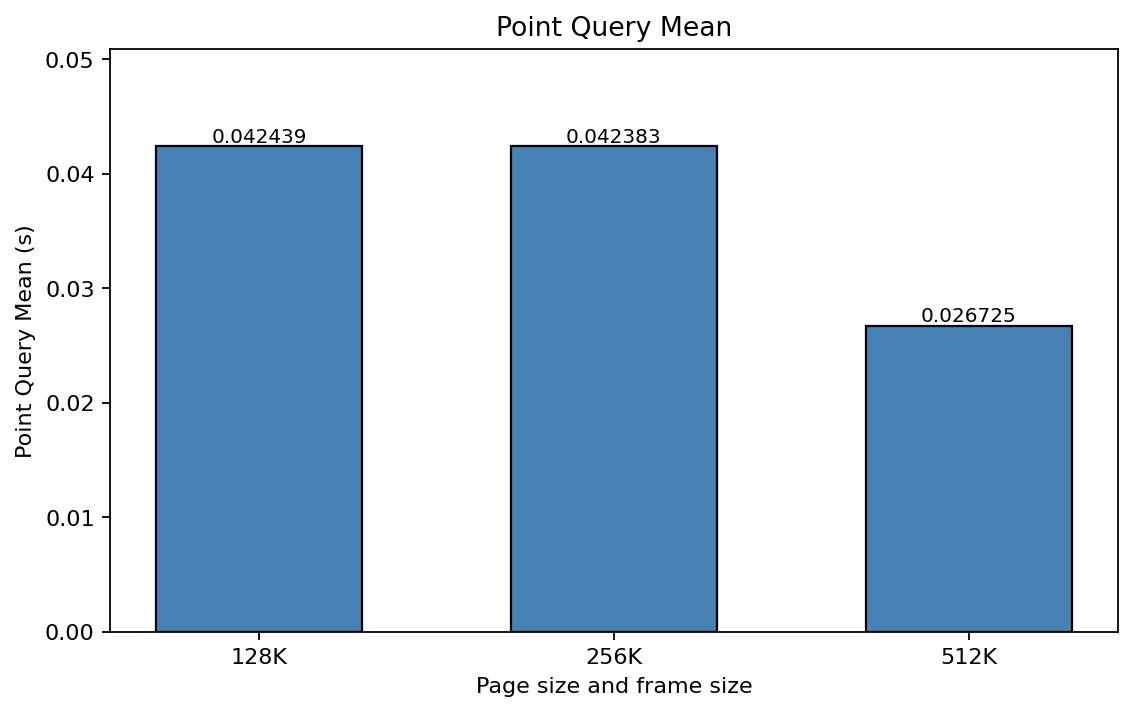
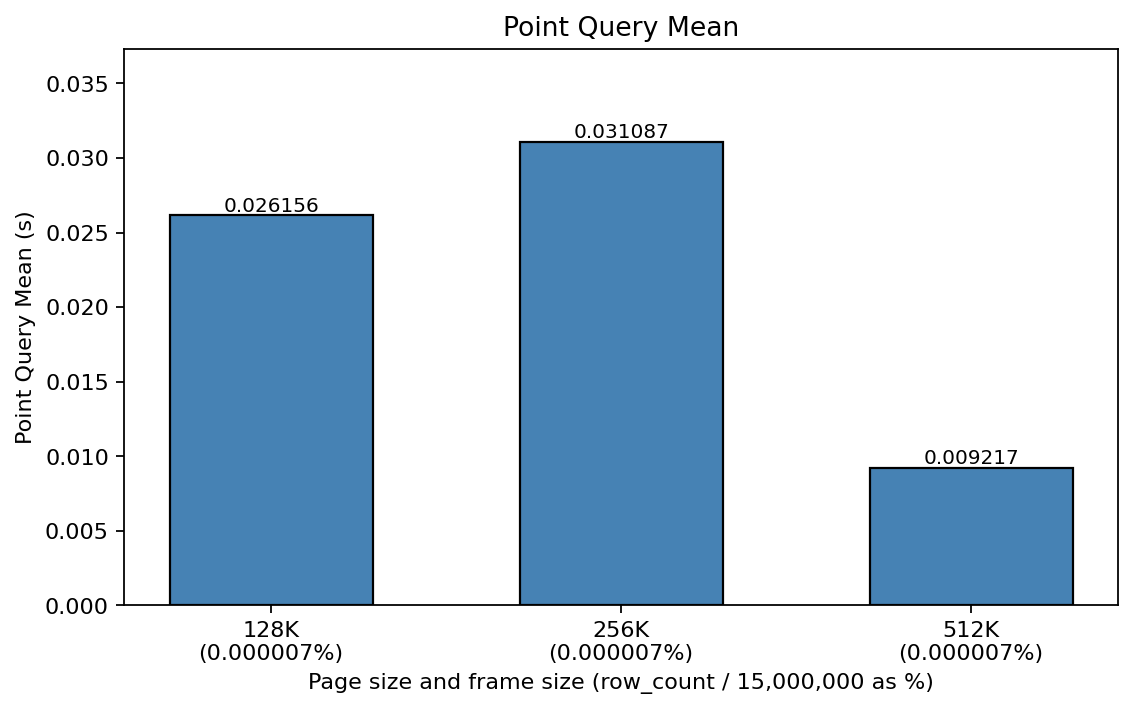
profile

Changed region(s): [[0.0, 0.062, 0.9885, 0.9915], [0.4325, 0.0, 0.6487, 0.062]]

diff --git a/ch2driver/pytpcc/scripts/asterix/run_point_queries_benchmark.py b/ch2driver/pytpcc/scripts/asterix/run_point_queries_benchmark.py
@@ -19,6 +19,8 @@ Asterix ``/query/service`` docs), overall and per dataset.
 
 Optional: ``--print-query-response`` prints the first successful response JSON (keys + pretty body) to stderr for exploring the API payload.
 
+``--profile-timings-one`` posts only the first ``SELECT`` with ``profile=timings`` and ``optimized-logical-plan=true``, prints the **full** JSON response on stdout, and exits (see ``load_ddl.profile_timings_query_form_params``).
+
 Example::
 
   python scripts/asterix/create_point_queries_sqlpp.py -D bench --min 1 --max 100 \\
@@ -197,6 +199,11 @@ def main() -> int:
         metavar="N",
         help="Max chars of pretty-printed JSON for --print-query-response (default: 20000)",
     )
+    p.add_argument(
+        "--profile-timings-one",
+        action="store_true",
+        help="Run only the first SELECT with profile=timings + optimized-logical-plan; print full JSON on stdout and exit",
+    )
     args = p.parse_args()
 
     path = args.file.expanduser().resolve()
@@ -253,8 +260,31 @@ def main() -> int:
 
         t0 = time.perf_counter()
         try:
-            body = load_ddl._post_statement(args.url, to_post, timeout=to_secs)
+            body = load_ddl._post_statement(
+                args.url,
+                to_post,
+                timeout=to_secs,
+                extra_form=(
+                    load_ddl.profile_timings_query_form_params()
+                    if args.profile_timings_one
+                    else None
+                ),
+            )
         except urllib.error.HTTPError as e:
+            if args.profile_timings_one:
+                try:
+                    err = e.read().decode("utf-8")
+                    try:
+                        obj = json.loads(err)
+                        print(
+                            json.dumps(obj, indent=2, default=str),
+                            flush=True,
+                        )
+                    except json.JSONDecodeError:
+                        print(err, flush=True)
+                except Exception:
+                    print(str(e), flush=True)
+                return 1
             n_fail += 1
             try:
                 err = e.read().decode("utf-8")
@@ -265,11 +295,29 @@ def main() -> int:
                 return 1
             continue
         except Exception as ex:
+            if args.profile_timings_one:
+                print(
+                    json.dumps(
+                        {"status": "fatal", "errors": [str(ex)]},
+                        indent=2,
+                        default=str,
+                    ),
+                    flush=True,
+                )
+                return 1
             n_fail += 1
             print(f"Request failed: {ex}", file=sys.stderr)
             if not args.continue_on_error:
                 return 1
             continue
+
+        if args.profile_timings_one:
+            print(json.dumps(body, indent=2, default=str), flush=True)
+            return (
+                0
+                if isinstance(body, dict) and body.get("status") == "success"
+                else 1
+            )
 
         elapsed = time.perf_counter() - t0
 
@@ -308,6 +356,13 @@ def main() -> int:
 
         if args.max_queries and n_ok >= args.max_queries:
             break
+
+    if args.profile_timings_one:
+        print(
+            "error: --profile-timings-one: no executable SELECT in file (after USE/DDL skips)",
+            file=sys.stderr,
+        )
+        return 1
 
     wall1 = time.perf_counter()
     wall_sec = wall1 - wall0

diff --git a/scripts/ch2_point_geomean_plot.py b/scripts/ch2_point_geomean_plot.py
@@ -21,29 +21,42 @@ import matplotlib.pyplot as plt
 import numpy as np
 
 LABEL_ORDER = ["128K", "256K", "512K"]
+ROW_COUNT_DENOM = 15_000_000.0
 GEOMEAN_RE = re.compile(
     r"Overall\s+geometric\s+mean\s+time\s+\(sec\)\s*:\s*([\d.]+)",
     re.IGNORECASE,
 )
+ROWCOUNT_RE = re.compile(
+    r"avg_result_row_count\s*=\s*([\d.]+)",
+    re.IGNORECASE,
+)
 
 
-def parse_geomean(path: Path) -> float:
+def parse_metrics(path: Path) -> Dict[str, float]:
     text = path.read_text(encoding="utf-8", errors="replace")
-    match = GEOMEAN_RE.search(text)
-    if not match:
+    geomean_match = GEOMEAN_RE.search(text)
+    rowcount_match = ROWCOUNT_RE.search(text)
+
+    if not geomean_match:
         raise SystemExit(
             f"Could not find 'Overall geometric mean time (sec): ...' in {path}"
         )
-    return float(match.group(1))
+    if not rowcount_match:
+        raise SystemExit(f"Could not find 'avg_result_row_count=...' in {path}")
+
+    return {
+        "geomean_sec": float(geomean_match.group(1)),
+        "avg_result_row_count": float(rowcount_match.group(1)),
+    }
 
 
-def load_inputs(inputs: List[str]) -> Dict[str, float]:
+def load_inputs(inputs: List[str]) -> Dict[str, Dict[str, float]]:
     if len(inputs) != len(LABEL_ORDER):
         raise SystemExit(
             f"Expected {len(LABEL_ORDER)} --input entries, got {len(inputs)}"
         )
 
-    data: Dict[str, float] = {}
+    data: Dict[str, Dict[str, float]] = {}
     for item in inputs:
         if "=" not in item:
             raise SystemExit(f"Invalid --input (use LABEL=PATH): {item!r}")
@@ -58,7 +71,7 @@ def load_inputs(inputs: List[str]) -> Dict[str, float]:
         if not path.is_file():
             raise SystemExit(f"Input file not found: {path}")
 
-        data[label] = parse_geomean(path)
+        data[label] = parse_metrics(path)
 
     for label in LABEL_ORDER:
         if label not in data:
@@ -68,7 +81,12 @@ def load_inputs(inputs: List[str]) -> Dict[str, float]:
 
 def plot_average_time(data: Dict[str, float], out_path: Path) -> None:
     labels = LABEL_ORDER
-    values = [data[label] for label in labels]
+    values = [data[label]["geomean_sec"] for label in labels]
+    labels_with_pct = []
+    for label in labels:
+        row_count = data[label]["avg_result_row_count"]
+        pct = (row_count / ROW_COUNT_DENOM) * 100.0
+        labels_with_pct.append(f"{label}\n({pct:.6f}%)")
     x = np.arange(len(labels))
 
     fig, ax = plt.subplots(figsize=(7.2, 4.6))
@@ -84,9 +102,9 @@ def plot_average_time(data: Dict[str, float], out_path: Path) -> None:
         )
 
     ax.set_xticks(x)
-    ax.set_xticklabels(labels)
+    ax.set_xticklabels(labels_with_pct)
     ax.set_title("Point Query Mean")
-    ax.set_xlabel("Page size and frame size")
+    ax.set_xlabel("Page size and frame size (row_count / 15,000,000 as %)")
     ax.set_ylabel("Point Query Mean (s)")
     ymax = max(values) * 1.2 if values else 1.0
     ax.set_ylim(0, ymax)
@@ -123,7 +141,10 @@ def main() -> None:
     plot_average_time(data, args.out.resolve())
     print(f"Wrote chart to: {args.out.resolve()}")
     for label in LABEL_ORDER:
-        print(f"  {label}: {data[label]:.6f} s")
+        geomean = data[label]["geomean_sec"]
+        row_count = data[label]["avg_result_row_count"]
+        pct = (row_count / ROW_COUNT_DENOM) * 100.0
+        print(f"  {label}: geomean={geomean:.6f} s  row_count={row_count:.6f} ({pct:.6f}%)")
 
 
 if __name__ == "__main__":

diff --git a/ch2driver/pytpcc/scripts/asterix/load_ddl.py b/ch2driver/pytpcc/scripts/asterix/load_ddl.py
@@ -106,12 +106,31 @@ def _apply_dataverse(raw: str, target: str, source: str) -> str:
     return raw
 
 
-def _post_statement(url: str, statement: str, timeout: float | None = 600.0):
-    data = urllib.parse.urlencode({"statement": statement}).encode("utf-8")
+def _post_statement(
+    url: str,
+    statement: str,
+    timeout: float | None = 600.0,
+    *,
+    extra_form: dict[str, str | bool] | None = None,
+):
+    """POST ``statement`` as form field ``statement``. Optional ``extra_form`` merged into the body."""
+    fields: dict[str, str] = {"statement": statement}
+    if extra_form:
+        for key, val in extra_form.items():
+            if isinstance(val, bool):
+                fields[key] = "true" if val else "false"
+            else:
+                fields[key] = str(val)
+    data = urllib.parse.urlencode(fields).encode("utf-8")
     req = urllib.request.Request(url, data=data, method="POST")
     # timeout None = wait indefinitely (for very large LOAD/COPY jobs)
     with urllib.request.urlopen(req, timeout=timeout) as resp:
         return json.loads(resp.read().decode("utf-8"))
+
+
+def profile_timings_query_form_params() -> dict[str, str | bool]:
+    """Asterix ``/query/service`` optional form fields for timing + logical plan in responses."""
+    return {"profile": "timings", "optimized-logical-plan": True}
 
 
 def run_sqlpp_text(
